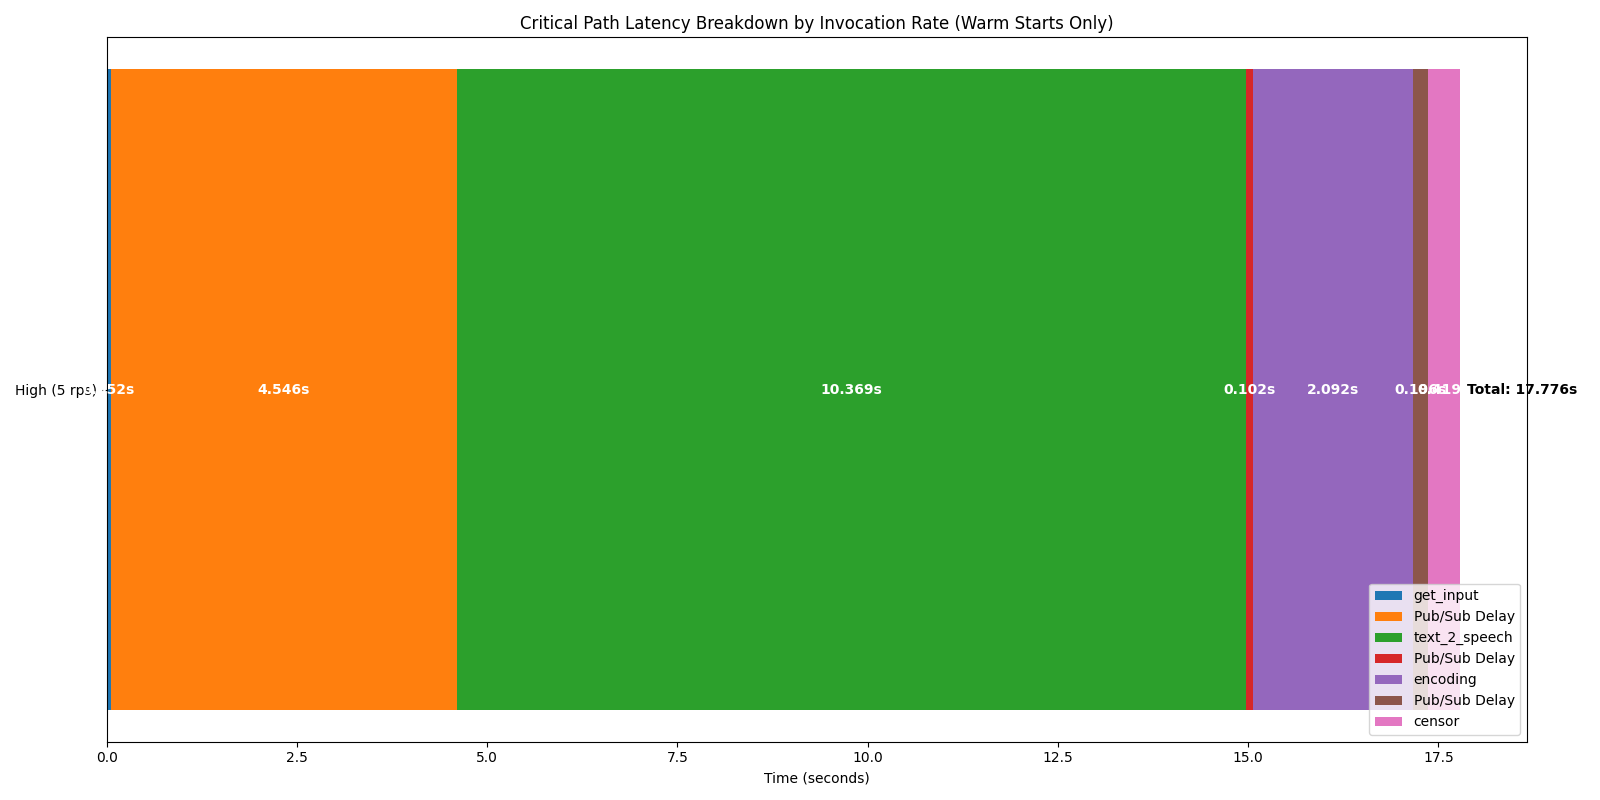
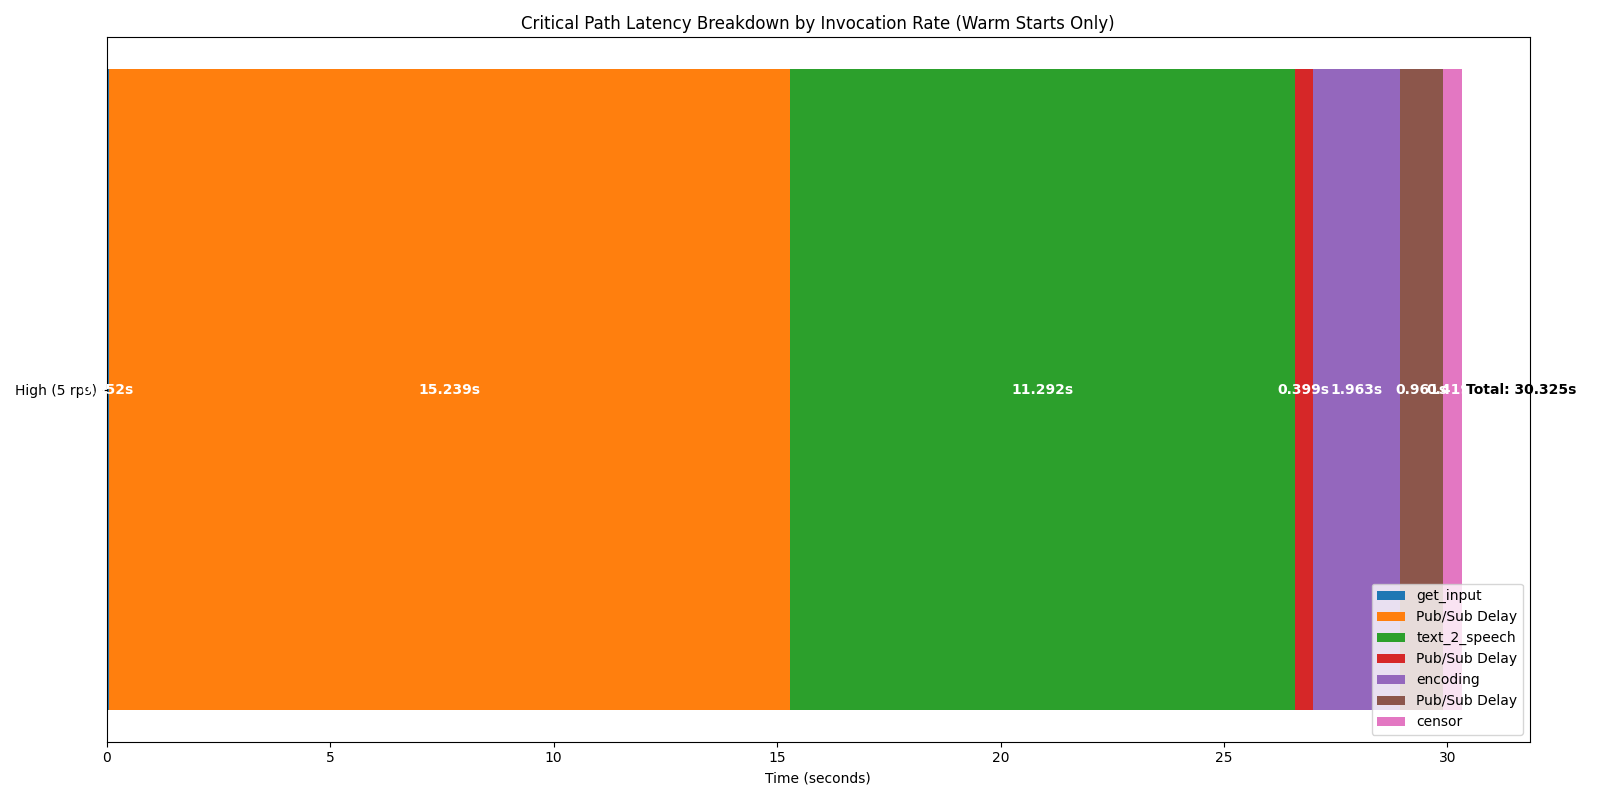
use logs before sending

diff --git a/benchmark_results/analyzer/gcp_pubsub/cdf_2.py b/benchmark_results/analyzer/gcp_pubsub/cdf_2.py
@@ -14,35 +14,35 @@ import matplotlib.pyplot as plt
 GCP_PROJECT_ID = "caribou-460422"
 
 SERVICE_NAMES = {
-    "get_requests": "pubs-ting-0-0-1-get-ests-gcp-us-ea1-97b98094d0a0",
-    "destination": "pubs-ting-0-0-1-dest-tion-gcp-us-ea1-3c3c79569ac3",
+    "get_requests": "pubs-ting-0-0-3-get-ests-gcp-us-ea1-6f83f8992d06",
+    "destination": "pubs-ting-0-0-3-dest-tion-gcp-us-ea1-2895579b0724",
 }
 
 SCENARIOS = {
     "Large Message (0.1 rps)": {
-        "start_time": datetime(2025, 10, 8, 1, 18, 4, tzinfo=timezone.utc),
-        "end_time": datetime(2025, 10, 8, 2, 0, 18, tzinfo=timezone.utc),
+        "start_time": datetime(2025, 10, 9, 2, 9, 41, tzinfo=timezone.utc),
+        "end_time": datetime(2025, 10, 9, 2, 51, 58, tzinfo=timezone.utc),
     },
     "Large Message (5 rps)": {
-        "start_time": datetime(2025, 10, 8, 1, 14, 23, tzinfo=timezone.utc),
-        "end_time": datetime(2025, 10, 8, 1, 15, 51, tzinfo=timezone.utc),
+        "start_time": datetime(2025, 10, 9, 2, 59, 30, tzinfo=timezone.utc),
+        "end_time": datetime(2025, 10, 9, 3, 1, 7, tzinfo=timezone.utc),
     },
     "Small Message (0.1 rps)": {
-        "start_time": datetime(2025, 10, 8, 2, 3, 37, tzinfo=timezone.utc),
-        "end_time": datetime(2025, 10, 8, 2, 46, 0, tzinfo=timezone.utc),
+        "start_time": datetime(2025, 10, 8, 21, 42, 14, tzinfo=timezone.utc),
+        "end_time": datetime(2025, 10, 8, 22, 24, 31, tzinfo=timezone.utc),
     },
     "Small Message (5 rps)": {
-        "start_time": datetime(2025, 10, 8, 1, 11, 55, tzinfo=timezone.utc),
-        "end_time": datetime(2025, 10, 8, 1, 13, 25, tzinfo=timezone.utc),
+        "start_time": datetime(2025, 10, 9, 3, 6, 34, tzinfo=timezone.utc),
+        "end_time": datetime(2025, 10, 9, 3, 8, 9, tzinfo=timezone.utc),
     },
 }
 # -------------------
 
 # --- Regular Expressions for Parsing ---
 LOG_PATTERN = re.compile(r"TIME \((.*?)\) RUN_ID \((.*?)\) MESSAGE \((.*?)\) LOG_VERSION")
+DEBUG_LOG_PATTERN = re.compile(r"TIME (.*) RUN_ID (\S+) MESSAGE\((.*)\)")
 TAINT_PATTERN = re.compile(r"TAINT \((.*?)\)")
 INSTANCE_PATTERN = re.compile(r"INSTANCE \((.*?)\)")
-SUCCESSOR_PATTERN = re.compile(r"SUCCESSOR \((.*?)\)")
 
 
 # ---------------------------------------
@@ -58,12 +58,12 @@ def fetch_logs(client: logging_v2.Client, service_name: str, start_time: datetim
         f'resource.labels.service_name="{service_name}"',
         f'timestamp >= "{time_start_str}"',
         f'timestamp <= "{time_end_str}"',
-        '(logName=~ "run.googleapis.com%2Frequests" OR logName =~ "run.googleapis.com%2Fvarlog%2Fsystem" OR jsonPayload.severity = "CARIBOU")'
+        '(logName=~ "run.googleapis.com%2Frequests" OR logName =~ "run.googleapis.com%2Fvarlog%2Fsystem" OR jsonPayload.severity = "CARIBOU" OR logName =~ "run.googleapis.com%2Fstdout")'
     ]
     query = " AND ".join(filter_parts)
 
     print(f"Fetching logs for '{service_name}'...")
-
+    # ... (rest of function is unchanged) ...
     max_retries = 5
     initial_delay = 5
 
@@ -74,8 +74,7 @@ def fetch_logs(client: logging_v2.Client, service_name: str, start_time: datetim
         except google_api_exceptions.ResourceExhausted as e:
             if attempt < max_retries - 1:
                 delay = initial_delay * (2 ** attempt)
-                print(
-                    f"  [WARNING] Quota limit likely hit. Retrying in {delay} seconds... (Attempt {attempt + 1}/{max_retries})")
+                print(f"  [WARNING] Quota limit likely hit. Retrying in {delay} seconds...")
                 time.sleep(delay)
             else:
                 print(f"  [ERROR] Failed to retrieve logs for {service_name} after {max_retries} attempts. Error: {e}")
@@ -86,30 +85,51 @@ def fetch_logs(client: logging_v2.Client, service_name: str, start_time: datetim
     return []
 
 
-def parse_caribou_log(log_entry: dict) -> Optional[Tuple[datetime, str, str]]:
-    """Parses a structured GCP log to extract the core Caribou log message."""
-    payload = log_entry.get("jsonPayload", {})
-    message = payload.get("message")
-    if not message: return None
+# MODIFIED: Rewritten parse_log to handle both textPayload and jsonPayload structures.
+def parse_log(log_entry: dict) -> Optional[Tuple[datetime, str, str]]:
+    """Parses a structured GCP log to extract the core log message, handling multiple formats."""
+    message = None
 
-    match = LOG_PATTERN.search(message)
-    if not match: return None
+    # Try to get the message from a structured JSON payload first.
+    if "jsonPayload" in log_entry and isinstance(log_entry["jsonPayload"], dict) and "message" in log_entry[
+        "jsonPayload"]:
+        message = log_entry["jsonPayload"]["message"]
+    # If that fails, try to get it from a simple text payload.
+    elif "textPayload" in log_entry:
+        message = log_entry["textPayload"]
 
-    timestamp_str, run_id, core_message = match.groups()
-    try:
-        if ',' in timestamp_str:
-            timestamp_str = timestamp_str.replace(',', '.', 1)
-        timestamp = datetime.strptime(timestamp_str, "%Y-%m-%d %H:%M:%S.%f%z")
-        return timestamp, run_id, core_message
-    except ValueError:
+    if not message:
         return None
+
+    # Now, attempt to match the message content against our known formats.
+    match = LOG_PATTERN.search(message)
+    if match:
+        timestamp_str, run_id, core_message = match.groups()
+        try:
+            if ',' in timestamp_str:
+                timestamp_str = timestamp_str.replace(',', '.', 1)
+            timestamp = datetime.strptime(timestamp_str, "%Y-%m-%d %H:%M:%S.%f%z")
+            return timestamp, run_id, core_message
+        except ValueError:
+            return None
+
+    match = DEBUG_LOG_PATTERN.search(message)
+    if match:
+        timestamp_str, run_id, core_message = match.groups()
+        try:
+            timestamp_str = timestamp_str.strip()
+            timestamp = datetime.fromisoformat(timestamp_str)
+            return timestamp, run_id, core_message
+        except ValueError:
+            return None
+
+    return None
 
 
 def plot_results(all_metrics: Dict[str, Dict[str, list]]):
-    """Generates a 2x2 grid of CDFs for Pub/Sub latency across all scenarios."""
-
+    """Generates a 2x2 grid of CDFs for the TOTAL Pub/Sub latency across all scenarios."""
     fig, axes = plt.subplots(2, 2, figsize=(12, 10), sharex=True, sharey=True)
-    fig.suptitle('Pub/Sub Latency Distribution (Warm Starts Only)', fontsize=16)
+    fig.suptitle('Total End-to-End Pub/Sub Latency Distribution (Warm Starts Only)', fontsize=16)
 
     scenario_map = {
         "Small Message (0.1 rps)": axes[0, 0],
@@ -117,14 +137,14 @@ def plot_results(all_metrics: Dict[str, Dict[str, list]]):
         "Large Message (0.1 rps)": axes[1, 0],
         "Large Message (5 rps)": axes[1, 1],
     }
-
+    # ... (rest of function is unchanged) ...
     for name, ax in scenario_map.items():
         metrics = all_metrics.get(name)
-        if not metrics or 'delay_get_requests_to_destination' not in metrics:
+        if not metrics or 'total_e2e_latency' not in metrics:
             ax.text(0.5, 0.5, 'No data', ha='center', va='center')
             continue
 
-        latencies_sec = metrics['delay_get_requests_to_destination']
+        latencies_sec = metrics['total_e2e_latency']
         latencies_ms = np.array(latencies_sec) * 1000.0
 
         sorted_latencies = np.sort(latencies_ms)
@@ -140,14 +160,12 @@ def plot_results(all_metrics: Dict[str, Dict[str, list]]):
     fig.text(0.5, 0.04, 'Latency (milliseconds)', ha='center', va='center', fontsize=14)
     fig.text(0.06, 0.5, 'CDF', ha='center', va='center', rotation='vertical', fontsize=14)
 
-    # MODIFIED: Set the left x-axis limit to 10ms for better readability
     plt.xlim(left=10)
-
     plt.tight_layout(rect=[0.08, 0.05, 1, 0.95])
 
-    filename = "2_pubsub_latency_cdf.png"
+    filename = "2_pubsub_total_latency_cdf.png"
     plt.savefig(filename)
-    print(f"\nCDF plot of Pub/Sub latencies saved to {filename}")
+    print(f"\nCDF plot of total Pub/Sub latencies saved to {filename}")
 
 
 def analyze_scenarios():
@@ -156,43 +174,35 @@ def analyze_scenarios():
         logging_client = logging_v2.Client()
     except Exception:
         print("[ERROR] Could not authenticate with Google Cloud.")
-        print("Please run 'gcloud auth application-default login' and try again.")
         sys.exit(1)
 
     all_scenario_metrics = {}
-
+    # ... (rest of function is unchanged) ...
     for name, window in SCENARIOS.items():
         print(f"\n--- Analyzing Scenario: {name} ---")
 
         all_logs = {key: fetch_logs(logging_client, s_name, window['start_time'], window['end_time']) for key, s_name in
                     SERVICE_NAMES.items()}
-
         flat_logs = [log for logs in all_logs.values() for log in logs]
         if not flat_logs:
             print(f"  - [WARNING] No logs found for scenario '{name}'. Skipping.")
             continue
 
-        cold_start_instance_ids = set()
-        instance_to_run_id = {}
-        trace_to_request_start = {}
-
+        cold_start_instance_ids, instance_to_run_id, trace_to_request_start = set(), {}, {}
         for log in flat_logs:
             if "run.googleapis.com%2Fvarlog%2Fsystem" in log.get("logName", "") and "Starting new instance" in log.get(
                     "textPayload", ""):
                 instance_id = log.get("labels", {}).get("instanceId")
-                if instance_id:
-                    cold_start_instance_ids.add(instance_id)
-
+                if instance_id: cold_start_instance_ids.add(instance_id)
             if "run.googleapis.com%2Frequests" in log.get("logName", ""):
                 trace = log.get("trace")
                 payload = log.get("protoPayload") or log.get("httpRequest")
                 if trace and payload and "latency" in payload:
-                    trace_id = trace.split("/")[-1]
-                    end_time = datetime.fromisoformat(log["timestamp"].replace("Z", "+00:00"))
+                    trace_id, end_time = trace.split("/")[-1], datetime.fromisoformat(
+                        log["timestamp"].replace("Z", "+00:00"))
                     latency_s = float(payload["latency"].rstrip("s"))
                     trace_to_request_start[trace_id] = end_time - timedelta(seconds=latency_s)
-
-            parsed = parse_caribou_log(log)
+            parsed = parse_log(log)
             instance_id = log.get("labels", {}).get("instanceId")
             if parsed and instance_id:
                 _, run_id, _ = parsed
@@ -200,102 +210,67 @@ def analyze_scenarios():
 
         cold_start_run_ids = {instance_to_run_id[inst_id] for inst_id in cold_start_instance_ids if
                               inst_id in instance_to_run_id}
-        print(f"  - Found {len(cold_start_run_ids)} runs that included a cold start. Excluding from analysis.")
+        print(f"  - Found {len(cold_start_run_ids)} runs that included a cold start. Excluding.")
 
         run_events = defaultdict(list)
-        for service_key, logs in all_logs.items():
+        for logs in all_logs.values():
             for log in logs:
-                parsed = parse_caribou_log(log)
-                if not parsed: continue
-                timestamp, run_id, message = parsed
-                if run_id in cold_start_run_ids: continue
-
-                trace_id = log.get("trace", "").split("/")[-1] if log.get("trace") else None
-                run_events[run_id].append({'timestamp': timestamp, 'message': message, 'trace_id': trace_id})
+                parsed = parse_log(log)
+                if parsed and parsed[1] not in cold_start_run_ids:
+                    trace_id = log.get("trace", "").split("/")[-1] if log.get("trace") else None
+                    run_events[parsed[1]].append({'timestamp': parsed[0], 'message': parsed[2], 'trace_id': trace_id})
 
         metrics = defaultdict(list)
         for run_id, events in run_events.items():
             events.sort(key=lambda x: x['timestamp'])
 
-            run_timeline = {}
-            invocations = {}
+            invocations = defaultdict(dict)
 
             for event in events:
                 timestamp, message, trace_id = event['timestamp'], event['message'], event['trace_id']
+                taint_match = TAINT_PATTERN.search(message)
+                if not taint_match: continue
+                taint = taint_match.group(1)
 
-                instance_match = INSTANCE_PATTERN.search(message)
-                if not instance_match: continue
-                instance_name = instance_match.group(1).split(':')[0]
-
-                if message.startswith("INVOKED"):
-                    run_timeline.setdefault(instance_name, {})['start_time'] = timestamp
-                    if trace_id:
-                        run_timeline[instance_name]['trace_id'] = trace_id
-                elif message.startswith("EXECUTED"):
-                    run_timeline.setdefault(instance_name, {})['end_time'] = timestamp
+                if message.startswith("DEBUG_PUBLISHING_TO_MESSAGING_SERVICE"):
+                    invocations[taint]['publish_start_time'] = timestamp
                 elif message.startswith("INVOKING_SUCCESSOR"):
-                    taint_match = TAINT_PATTERN.search(message)
-                    successor_match = SUCCESSOR_PATTERN.search(message)
-                    if taint_match and successor_match:
-                        taint, successor = taint_match.group(1), successor_match.group(1).split(':')[0]
-                        invocations[taint] = {'start_time': timestamp, 'from': instance_name, 'to': successor}
+                    invocations[taint]['publish_acked_time'] = timestamp
+                elif message.startswith("INVOKED"):
+                    instance_match = INSTANCE_PATTERN.search(message)
+                    if instance_match and instance_match.group(1).startswith('destination'):
+                        invocations[taint]['subscriber_invoked_time'] = timestamp
+                        if trace_id:
+                            invocations[taint]['subscriber_trace_id'] = trace_id
 
             for taint, data in invocations.items():
-                from_instance = data['from']
-                to_instance = data['to']
+                if all(k in data for k in ['publish_start_time', 'publish_acked_time', 'subscriber_invoked_time']):
+                    subscriber_start_time = None
+                    if 'subscriber_trace_id' in data and data['subscriber_trace_id'] in trace_to_request_start:
+                        subscriber_start_time = trace_to_request_start[data['subscriber_trace_id']]
+                    else:
+                        subscriber_start_time = data['subscriber_invoked_time']
 
-                if to_instance in run_timeline and 'start_time' in run_timeline[to_instance]:
-                    successor_invoked_time = run_timeline[to_instance]['start_time']
-                    invocation_start_time = data['start_time']
+                    total_latency = (subscriber_start_time - data['publish_start_time']).total_seconds()
+                    publish_latency = (data['publish_acked_time'] - data['publish_start_time']).total_seconds()
+                    transport_latency = (subscriber_start_time - data['publish_acked_time']).total_seconds()
 
-                    precise_delay_calculated = False
-                    if 'trace_id' in run_timeline[to_instance]:
-                        successor_trace_id = run_timeline[to_instance]['trace_id']
-                        if successor_trace_id in trace_to_request_start:
-                            request_start_time = trace_to_request_start[successor_trace_id]
-                            delay = (request_start_time - invocation_start_time).total_seconds()
-                            if delay >= 0:
-                                metrics[f'delay_{from_instance}_to_{to_instance}'].append(delay)
-                                precise_delay_calculated = True
-                                platform_overhead = (successor_invoked_time - request_start_time).total_seconds()
-                                metrics[f'platform_overhead_{to_instance}'].append(platform_overhead)
+                    if total_latency > 0:
+                        metrics['total_e2e_latency'].append(total_latency)
+                        metrics['publish_latency'].append(publish_latency)
+                        metrics['transport_latency'].append(transport_latency)
 
-                    if not precise_delay_calculated:
-                        delay = (successor_invoked_time - invocation_start_time).total_seconds()
-                        if delay >= 0:
-                            metrics[f'delay_{from_instance}_to_{to_instance}'].append(delay)
-                            metrics['imprecise_delays_counted'].append(1)
-
-            critical_path = ['get_requests', 'destination']
-            if all(k in run_timeline and 'start_time' in run_timeline[k] and 'end_time' in run_timeline[k] for k in
-                   critical_path):
-                e2e_time = (run_timeline['destination']['end_time'] - run_timeline['get_requests'][
-                    'start_time']).total_seconds()
-                metrics['e2e_time'].append(e2e_time)
-
-                for inst in critical_path:
-                    metrics[f'{inst}_exec_time'].append(
-                        (run_timeline[inst]['end_time'] - run_timeline[inst]['start_time']).total_seconds())
-
-        if not metrics['e2e_time']:
-            print("  - [ERROR] Found no complete, correlated warm workflow runs in this scenario.")
+        if not metrics['total_e2e_latency']:
+            print("  - [ERROR] Found no complete, correlated warm workflow runs.")
             continue
 
         median_results = {f'median_{key}': np.median(val) for key, val in metrics.items() if val}
-
         print(f"Results for '{name}':")
-        print(f"  - Found {len(metrics['e2e_time'])} complete warm runs.")
-        if 'imprecise_delays_counted' in metrics:
-            print(
-                f"  - Note: {len(metrics['imprecise_delays_counted'])} Pub/Sub delays were calculated using the less precise fallback method.")
-        print(f"  - Median End-to-End Time: {median_results.get('median_e2e_time', 0):.4f}s")
+        print(f"  - Found {len(metrics['total_e2e_latency'])} complete warm runs.")
+        print(f"  - Median Total E2E Latency: {median_results.get('median_total_e2e_latency', 0):.4f}s")
         print("  --- Breakdown ---")
-        print(f"    - Median 'get_requests' execution: {median_results.get('median_get_requests_exec_time', 0):.4f}s")
-        print(
-            f"    - Median Pub/Sub Latency:          {median_results.get('median_delay_get_requests_to_destination', 0):.4f}s")
-        print(f"    - Median 'destination' execution:  {median_results.get('median_destination_exec_time', 0):.4f}s")
-        print(
-            f"    - Median Platform Overhead at 'destination': {median_results.get('median_platform_overhead_destination', 0):.4f}s")
+        print(f"    - Median Publish Latency:   {median_results.get('median_publish_latency', 0):.4f}s")
+        print(f"    - Median Transport Latency: {median_results.get('median_transport_latency', 0):.4f}s")
 
         all_scenario_metrics[name] = metrics
 
